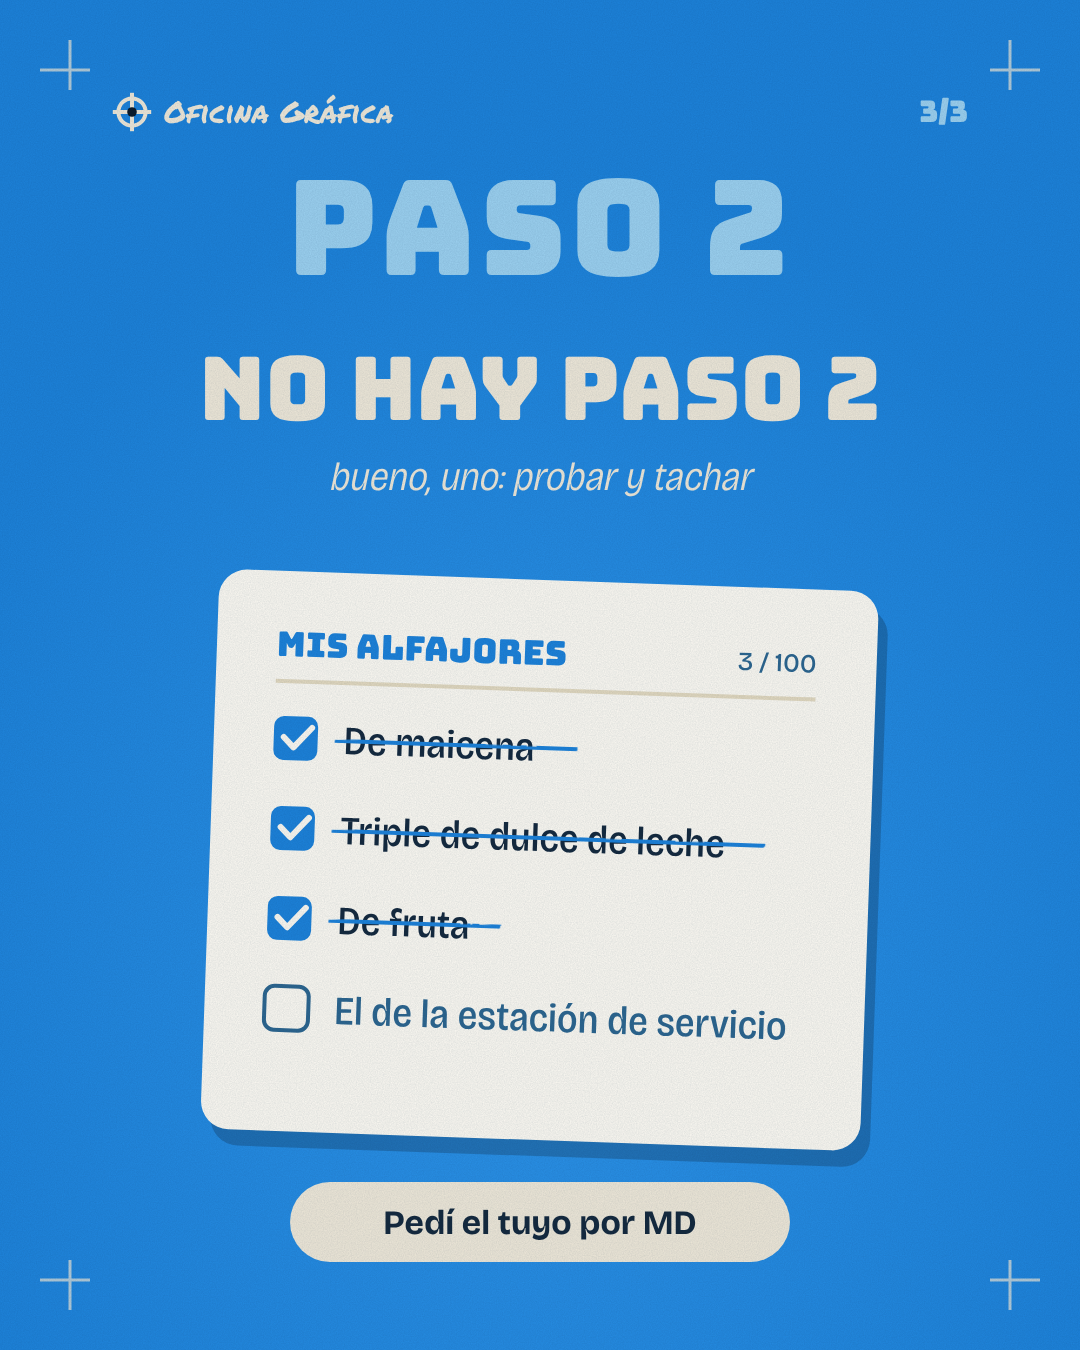
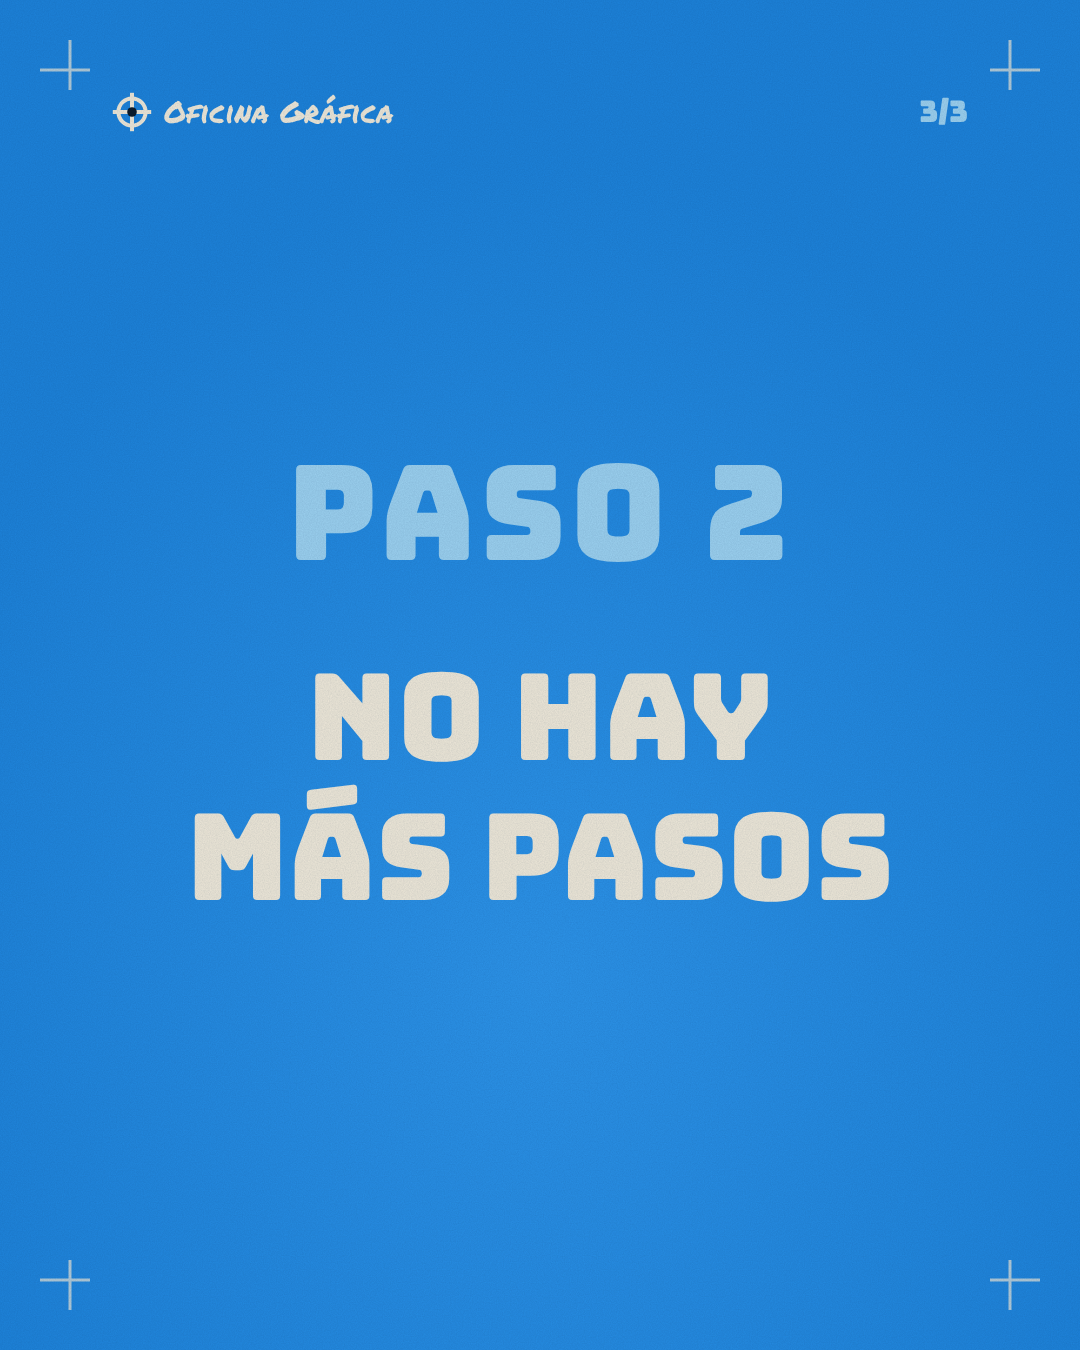
Redes: paso 2 del carrusel solo con «No hay más pasos»
Claude-Session: https://claude.ai/code/session_01FGxw9aPArw9pn3yxwBbtRR

diff --git a/redes/enojo/slide-3.html b/redes/enojo/slide-3.html
@@ -38,49 +38,9 @@
   </g>
   <text class="bungee" x="968" y="122" font-size="30" fill="#9BD0EF" text-anchor="end">3/3</text>
 
-  <text class="bungee" x="540" y="275" font-size="132" fill="#9BD0EF" text-anchor="middle" letter-spacing="4">PASO 2</text>
-  <text class="bungee" x="540" y="420" font-size="88" fill="#EEE7D8" text-anchor="middle">NO HAY PASO 2</text>
-  <text class="brico" x="540" y="490" font-size="40" font-weight="300" fill="#EEE7D8" text-anchor="middle"
-        transform="skewX(-12) translate(104 0)" style="font-variation-settings:'opsz' 48,'wdth' 90">bueno, uno: probar y tachar</text>
-
-  <!-- página del álbum: lista con tildes -->
-  <g transform="translate(540 850) rotate(2)">
-    <rect x="-330" y="-270" width="660" height="560" rx="28" fill="#0A1B2B" opacity=".25" transform="translate(10 16)"/>
-    <rect x="-330" y="-270" width="660" height="560" rx="28" fill="#FBF8F1"/>
-    <text class="bungee" x="-270" y="-185" font-size="34" fill="#1C82D9">MIS ALFAJORES</text>
-    <text class="brico" x="270" y="-187" font-size="26" font-weight="500" fill="#2C6690" text-anchor="end">3 / 100</text>
-    <line x1="-270" y1="-160" x2="270" y2="-160" stroke="#E2D8BF" stroke-width="4"/>
-    <g class="brico" font-size="40" font-weight="500" fill="#142A40" style="font-variation-settings:'wdth' 90">
-      <g transform="translate(0 -95)">
-        <rect x="-270" y="-30" width="44" height="44" rx="10" fill="#1C82D9"/>
-        <path d="M-260 -9l10 10 18-20" fill="none" stroke="#FBF8F1" stroke-width="6" stroke-linecap="round" stroke-linejoin="round"/>
-        <text x="-200" y="6">De maicena</text>
-        <path d="M-206 -6C-120 -12 -20 -2 30 -8" fill="none" stroke="#1C82D9" stroke-width="6" stroke-linecap="round" filter="url(#rough)"/>
-      </g>
-      <g transform="translate(0 -5)">
-        <rect x="-270" y="-30" width="44" height="44" rx="10" fill="#1C82D9"/>
-        <path d="M-260 -9l10 10 18-20" fill="none" stroke="#FBF8F1" stroke-width="6" stroke-linecap="round" stroke-linejoin="round"/>
-        <text x="-200" y="6">Triple de dulce de leche</text>
-        <path d="M-206 -6C-80 -12 80 -2 222 -8" fill="none" stroke="#1C82D9" stroke-width="6" stroke-linecap="round" filter="url(#rough)"/>
-      </g>
-      <g transform="translate(0 85)">
-        <rect x="-270" y="-30" width="44" height="44" rx="10" fill="#1C82D9"/>
-        <path d="M-260 -9l10 10 18-20" fill="none" stroke="#FBF8F1" stroke-width="6" stroke-linecap="round" stroke-linejoin="round"/>
-        <text x="-200" y="6">De fruta</text>
-        <path d="M-206 -6C-140 -12 -60 -2 -40 -8" fill="none" stroke="#1C82D9" stroke-width="6" stroke-linecap="round" filter="url(#rough)"/>
-      </g>
-      <g transform="translate(0 175)">
-        <rect x="-270" y="-30" width="44" height="44" rx="10" fill="none" stroke="#2C6690" stroke-width="4"/>
-        <text x="-200" y="6" fill="#2C6690">El de la estación de servicio</text>
-      </g>
-    </g>
-  </g>
-
-  <!-- llamado a la acción -->
-  <g transform="translate(540 1222)">
-    <rect x="-250" y="-40" width="500" height="80" rx="40" fill="#EEE7D8"/>
-    <text class="brico" x="0" y="12" font-size="34" font-weight="700" fill="#142A40" text-anchor="middle">Pedí el tuyo por MD</text>
-  </g>
+  <text class="bungee" x="540" y="560" font-size="132" fill="#9BD0EF" text-anchor="middle" letter-spacing="4">PASO 2</text>
+  <text class="bungee" x="540" y="760" font-size="120" fill="#EEE7D8" text-anchor="middle">NO HAY</text>
+  <text class="bungee" x="540" y="900" font-size="120" fill="#EEE7D8" text-anchor="middle">MÁS PASOS</text>
 
   <rect width="1080" height="1350" filter="url(#grano)" opacity=".28" style="mix-blend-mode:multiply"/>
 </svg>
